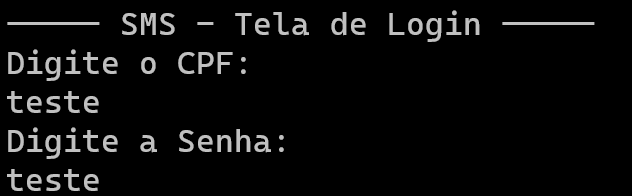
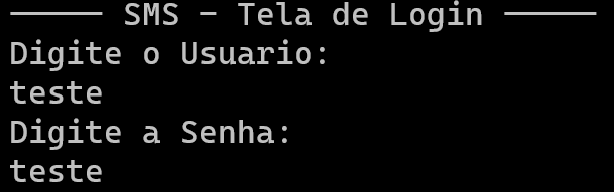
Update Images and Readme

diff --git a/Project/SMS.java b/Project/SMS.java
@@ -55,11 +55,8 @@ public class SMS {
                 case "1":
                     auth();
                 break;
-                case "2":
-                    System.exit(0);
-                break;
                 default:
-                    System.out.println("Opcao Nao Reconhecida.");
+                    System.exit(0);
                 break;
             }
         } while (!option.equals("2"));
@@ -94,7 +91,7 @@ public class SMS {
               
         System.out.println("----- SMS - Tela de Login -----");
 
-        System.out.println("Digite o CPF:");
+        System.out.println("Digite o Usuario:");
         String cpf = scanner.next();
 
         System.out.println("Digite a Senha:");
@@ -108,7 +105,7 @@ public class SMS {
         System.out.println("Digite o Nome:");
         String name = scanner.nextLine();
 
-        System.out.println("Digite o CPF:");
+        System.out.println("Digite o Usuario:");
         String cpf = scanner.next();
 
         System.out.println("Digite a Senha:");

diff --git a/Project/Users/Objects/Common.java b/Project/Users/Objects/Common.java
@@ -12,8 +12,8 @@ public class Common extends User {
     private Map<String, Sweepstake> sweepstakes;
     private Map<String, Sweepstake> sweepstakesJoined;
 
-    public Common(String cpf, String name, String password) {
-        super(cpf, name, password, Type.COMMON);
+    public Common(String username, String name, String password) {
+        super(username, name, password, Type.COMMON);
 
         this.items = new HashMap<>();
         this.sweepstakes = new HashMap<>();

diff --git a/Project/Users/Objects/Manager.java b/Project/Users/Objects/Manager.java
@@ -5,8 +5,8 @@ import Response.Response;
 import Sweepstakes.Objects.Sweepstake;
 
 public class Manager extends User {
-    public Manager(String cpf, String name, String password) {
-        super(cpf, name, password, Type.MANAGER);
+    public Manager(String username, String name, String password) {
+        super(username, name, password, Type.MANAGER);
     }
 
     public Response analizeSweepstake(Sweepstake sweepstake, boolean auth) {

diff --git a/Project/Users/Objects/User.java b/Project/Users/Objects/User.java
@@ -16,8 +16,8 @@ public class User {
     //#endregion
 
     //#region CONSTRUCTORS
-    public User(String cpf, String name, String password, Type type) {
-        this.id = cpf;
+    public User(String username, String name, String password, Type type) {
+        this.id = username;
         this.name = name;
         this.password = password;
         this.type = type;

diff --git a/Project/Rules/Controllers/RuleController.java b/Project/Rules/Controllers/RuleController.java
@@ -1,6 +1,5 @@
 package Rules.Controllers;
 
-import java.util.HashMap;
 import java.util.Map;
 
 import Database.Database;

diff --git a/Project/Users/Controllers/UserController.java b/Project/Users/Controllers/UserController.java
@@ -1,6 +1,5 @@
 package Users.Controllers;
 
-import java.util.HashMap;
 import java.util.Map;
 
 import Database.Database;

diff --git a/README.md b/README.md
@@ -30,8 +30,34 @@ The `Objects\User.java` is the generalized abstraction of User, and the `Control
 The `Objects\Common.java` is the standard user abstraction, and the `Controllers\CommonController.java` is responsible for managing the operations performed for standard users.
 The `Objects\Manager.java` is the abstraction of the administrator user, and the `Controllers\ManagerController.java` is responsible for managing the operations performed for the administrator users.
 ##### Other Files
-The `Index.java` is responsible for starting the system. 
+The `Index.java` is responsible for starting the system.
 The `SMS.java` is responsible for starting all the controllers and showing the system prompts.
+The `Database\Database.java` is a test facilitator, it instantiates the `users` and `rules` list, with some default data. There is no real database implemented.
+Default User List:
+    Manager:
+        Name: Administrador
+        User: admin
+        Password: admin
+
+        Name: Administrador 2
+        User: admin2
+        Password: admin2
+
+    Common:
+        Name: comum
+        User: comum
+        Password: comum
+
+        Name: comum 2
+        User: comum2
+        Password: comum2
+
+Default Rules List:
+    Name: Idade
+    Description: O participante deve ser maior de idade
+
+    Name: Localidade
+    Description: O participante deve residir no Brasil
 
 
 #### Programming Language
